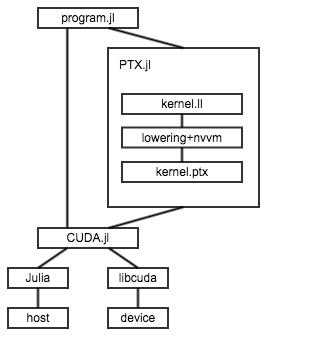
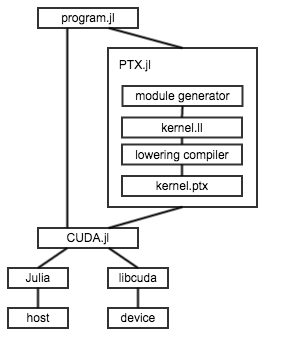
Updated compiler figure

diff --git a/body/implementation.tex b/body/implementation.tex
@@ -30,12 +30,11 @@ importaint details.
 \end{figure}
 
 Figure \ref{fig:compiler} illustrates the process of the code
-generation. A julia function is turned into LLVM IR with the compiler
-builtin macro __@code\_llvm__. This code is then lowered into code
-that the LLVM PTX backend can create PTX code for. Here the __llc__
-compiler is employed directly without modification. The PTX code can
-then be loaded and executed on the GPU with existing CUDA bindings
-written for Julia.
+generation. A julia function is turned into LLVM IR by the module
+generator. This code is then lowered into code that the LLVM PTX
+backend can create PTX code for. Here a modified version of the
+\gls{LLC} compiler is employed. The PTX code can then be loaded and
+executed on the GPU with existing CUDA bindings written for Julia.
 
 ## Julia Module Generator ##
 
@@ -45,9 +44,9 @@ The interface to the generator is the __code_module__ function.
 
 ## Lowering Compiler ##
 
-The lowering compiler is built on top of the LLVM static compiler
-__llc__. The compiler extends _llc_ by linking to predefined libraries,
-a lowering and an annotating compiler pass.
+The lowering compiler is built on top of the \gls{LLC}. The compiler
+extends \gls{LLC} by linking to predefined libraries, a lowering and
+an annotating compiler pass.
 
 # A Guided tour through the compiler #
 
@@ -152,10 +151,16 @@ The last step is done with existing libraries.
 
 ## Disabling inlineing ##
 
-A key to the method presented in this report is the __@noinline__
-macro. It is a modification to the Julia compiler. The macro marks a
-method so the Julia inlining mechanism will not consider a call to the
-method for inlining. 
+A key to the method presented in this report is disabling inlining.
+This can be done in two ways, either extending the Julia compiler or
+tricking the inlining mechanism. The compiler extention is to create a
+macro, _@noinline_ analogous to the exising _@inline_. The macro
+annotates a method so the Julia inlining mechanism will not consider a
+call to the method for inlining. The hack is to create a function that
+does not get inlined. By forcing this function to be inlined in the
+function you do not want inlined, you end up with a mechanism to avoid
+inlining. The latter approach is chosen to avoid changes to the
+compiler. 
 
 ## Unboxed arrays ##
 \label{sec:implementation-details-unboxed}

diff --git a/body/conclusion.tex b/body/conclusion.tex
@@ -4,14 +4,15 @@
 This report describes a library for tranlating vector functions in the
 Julia programming language to code that can execute on a NVIDIA
 GPU. The library is built using both Julia and the LLVM compiler
-infrastructure, utilizing the NVPTX backend. The result section shows
-that the resulting code is as performant as equivalent code written in
-CUDA and OpenCL C. Comparisons with current Julia CPU implementations
-of Matrix Multiplication also indicates that there is a posibility to
-offload even isolated computations to the GPU.
+infrastructure, utilizing the NVPTX backend. The results in Section
+\ref{sec:res} shows that the resulting code is as performant as
+equivalent code written in CUDA and OpenCL C. Comparisons with current
+Julia CPU implementations of Matrix Multiplication also indicates that
+there is a posibility to offload even isolated and relative small
+computations to the GPU.
 
-The results indicate that the unboxing of arrays approach taken by
-this library does not incure a loss of performance over lower level
+The results indicate that the unboxing of arrays approach taken by the
+PTX.jl library does not incure a loss of performance over lower level
 language implementations.
 
 The library enables using the existing GPU libraries written for Julia

diff --git a/body/results.tex b/body/results.tex
@@ -189,7 +189,7 @@ being faster on the CPU to being faster on the GPU.
 
 The _Memory Tranfer_ in Figure \ref{fig:res:mm:int32:mem} and
 \ref{fig:res:mm:int64:mem} reveales no surprices. The CPU does not
-require any memory transfer, therefor the graph is not visible in the
+require any memory transfer, therefore the graph is not visible in the
 figures. As expected, both CUDA and PTX.jl exposes a steady increase
 as the problem size grows.
 
@@ -199,11 +199,6 @@ GPU implementation in Figures \ref{fig:res:mm:int32:exec} and
 of cores on the GPU is two orders of magnitude lager than the CPU. We
 see that by only considering execution time the GPU implementation
 surpass the CPU at $n=50$ for 32-bits, and at $n=38$ for 64-bits.
-
-Another interesting note about the execution time is the difference
-between the CUDA and PTX.jl implementation. This is explored more in
-Section \ref{sec:res:cuda-v-ptx}.
-
 
 ## Floating point ##
 
@@ -258,6 +253,10 @@ Section \ref{sec:res:cuda-v-ptx}.
 
 ## Execution time CUDA vs PTX.jl ##
 
+
+Another interesting note about the execution time is the difference
+between the CUDA and PTX.jl implementation. This is explored more in
+Section \ref{sec:res:cuda-v-ptx}.
 dunno!
 
 \end{markdown}

diff --git a/body/discussion.tex b/body/discussion.tex
@@ -18,10 +18,9 @@ TODO
 
 # Result #
 
-
 TODO
 - When to offload to the GPU
-- The MM Integer vs Floating point
+- The MM Integer vs Floating point performance
 - Why CUDA has glitches and lower performance for MM
 - Why does OpenCL have lower performance for Blur
 

diff --git a/body/glossary.tex b/body/glossary.tex
@@ -10,3 +10,5 @@
 \newacronym{AMD}{AMD}{Advanced Micro Devices}
 \newacronym{PTX}{PTX}{Parallel Thread Exection}
 \newacronym{ISA}{ISA}{Instruction Set Architecture}
+
+\newacronym{LLC}{LLC}{LLVM static compiler}
